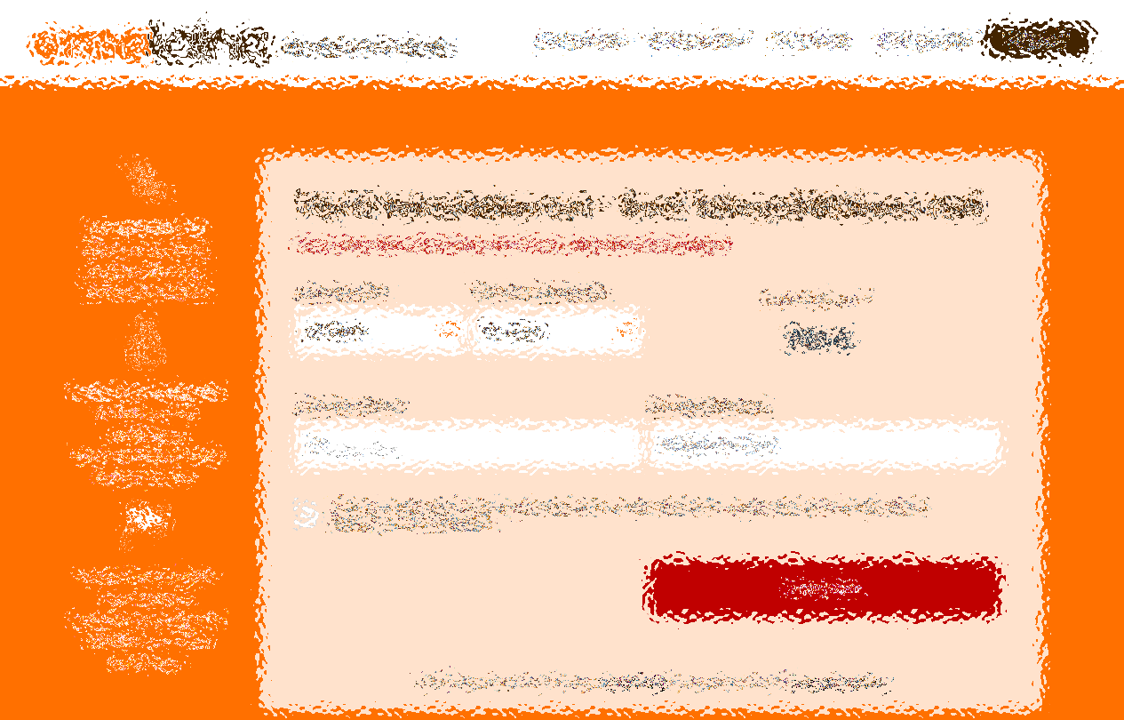
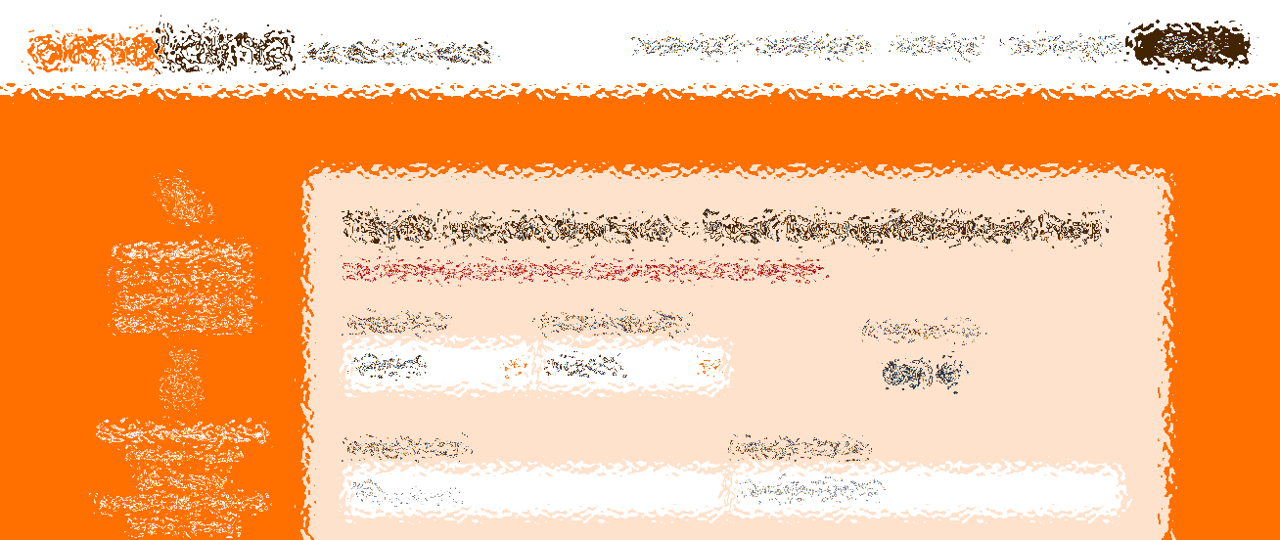
feat: payment display

diff --git a/app/src/routes/explore/+page.svelte b/app/src/routes/explore/+page.svelte
@@ -7,12 +7,13 @@
     import * as Wrappers from "$lib/explore/wrappers";
     import type { ExploreWrapper } from "$lib/explore/explore_wrapper";
     import EyeDisplay from "$lib/explore/displays/EyeDisplay.svelte";
+    import BrokerDisplay from "$lib/explore/displays/BrokerDisplay.svelte";
+    import PaymentDisplay from "$lib/explore/displays/PaymentDisplay.svelte";
 
     import { spring } from 'svelte/motion';
     import { fly } from "svelte/transition";
 
     import MouseTracker from "$lib/MouseTracker.svelte";
-    import BrokerDisplay from "$lib/explore/displays/BrokerDisplay.svelte";
 
     import emblaCarouselSvelte from 'embla-carousel-svelte'
 
@@ -32,8 +33,10 @@
     let current_wrapper_index = 0;
     const eye_wrapper = new Wrappers.EyeWrapper();
     const broker_wrapper = new Wrappers.BrokerWrapper();
+    const payment_wrapper = new Wrappers.PaymentWrapper();
     const wrappers: ExploreWrapper[] = [
         eye_wrapper,
+        payment_wrapper,
         broker_wrapper
     ];
 
@@ -226,6 +229,9 @@
                     </div>
                     <div class="embla__slide">
                         <BrokerDisplay bind:this={broker_wrapper.display}></BrokerDisplay>
+                    </div>
+                    <div class="embla__slide">
+                        <PaymentDisplay bind:this={payment_wrapper.display}></PaymentDisplay>
                     </div>
                 </div>
             </div>

diff --git a/app/src/lib/explore/wrappers/PaymentWrapper.ts b/app/src/lib/explore/wrappers/PaymentWrapper.ts
@@ -1,0 +1,13 @@
+import type PaymentDisplay from "$lib/explore/displays/PaymentDisplay.svelte";
+import type { ExploreWrapper } from "../explore_wrapper";
+
+export class PaymentWrapper implements ExploreWrapper {
+    display: PaymentDisplay;
+    description = 'Payment solutions require a fast, yet secure backend. In Maksu-by-rahalaitos we solved this with typescript ran microservices and AWS VPCs. Learn more about this greenfield payment solution!';
+    primary_title = 'Typescript Microservices';
+    secondary_title = 'Development of Maksu';
+
+    handle_mouse_move(event: MouseEvent) {
+        return event;
+    }
+}

diff --git a/app/src/lib/explore/displays/PaymentDisplay.svelte b/app/src/lib/explore/displays/PaymentDisplay.svelte
@@ -1,17 +1,17 @@
 <script lang="ts">
-    import brokering from "$lib/images/brokering.png";
+    import payment from "$lib/images/payment.png";
 </script>
 
-<div id="brokering-container" class="p-5">
+<div id="payment-container" class="p-5">
     <img
         class="rounded-2xl"
-        src={brokering}
-        alt="Brokering omalaina.fi"
+        src={payment}
+        alt="Payment solution"
     />
 </div>
 
 <style>
-    #brokering-container {
+    #payment-container {
         width: 100%;
         height: 100%;
         display: flex;

diff --git a/app/src/lib/explore/wrappers/BrokerWrapper.ts b/app/src/lib/explore/wrappers/BrokerWrapper.ts
@@ -5,7 +5,7 @@ export class BrokerWrapper implements ExploreWrapper {
     display: BrokerDisplay;
     description = 'Fintech is a unique field tasked with effective customer service and API solutions. My journey in fintech started with the development of the loan brokering solution omalaina.fi';
     primary_title = 'PHP Loan brokering';
-    secondary_title = 'Development Omalaina.fi';
+    secondary_title = 'Omalaina.fi Development';
 
     handle_mouse_move(event: MouseEvent) {
         return event;

diff --git a/app/src/lib/explore/explore_wrapper.ts b/app/src/lib/explore/explore_wrapper.ts
@@ -2,6 +2,7 @@
 export interface ExploreWrapper {
     handle_mouse_move: (event: MouseEvent) => void;
 
+    // eslint-disable-next-line
     display: any;
     description: string;
     primary_title: string;

diff --git a/app/src/lib/explore/wrappers/index.ts b/app/src/lib/explore/wrappers/index.ts
@@ -1,2 +1,3 @@
 export * from "./EyeWrapper";
 export * from "./BrokerWrapper";
+export * from "./PaymentWrapper";
